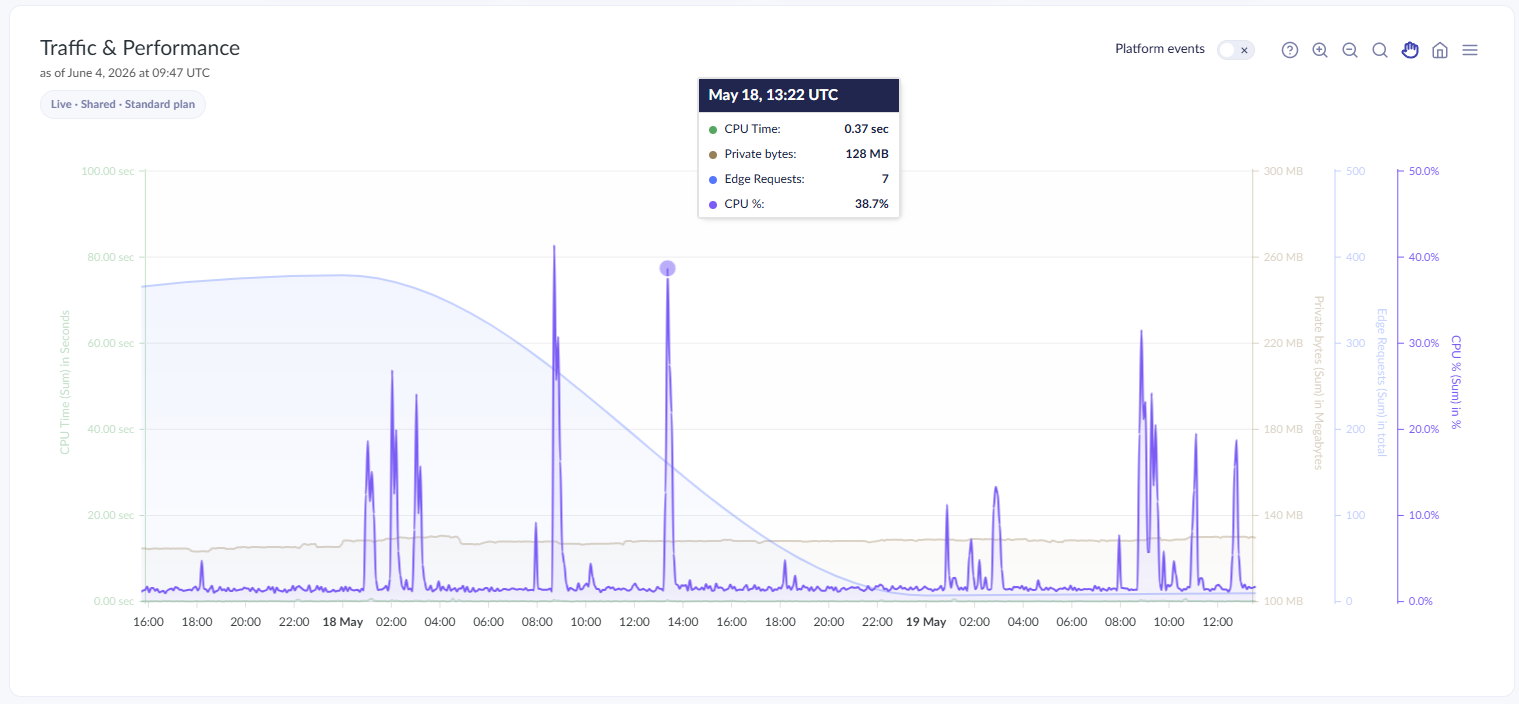
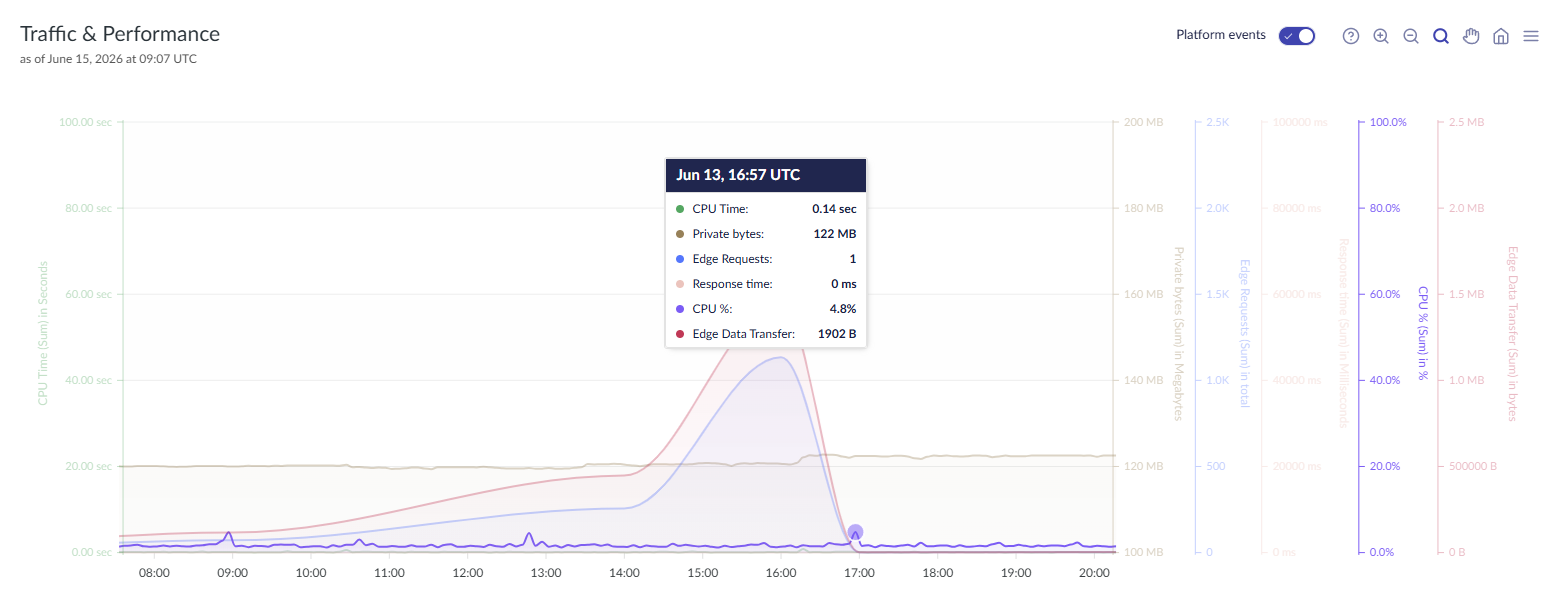
docs(cloud): address second-round review feedback on Traffic & Performance
- Rework Interactive Chart section: clarify that overview tiles double
  as the chart selector (no "Add metric" button anymore), default to
  one active metric (Failed Origin Requests), click a tile to toggle
  its metric on or off.
- Add a sentence and figure for the Edge Requests / Edge Data Traffic
  tabs at the top of the Traffic Breakdown Tables section.
- Replace platform-metrics and chart-zoomed-interactive screenshots
  with versions captured from a customer view, so the HQ-only plan
  badge ("Live · Shared · Standard plan") is no longer visible.

diff --git a/umbraco-cloud/optimize-and-maintain-your-site/monitor-and-troubleshoot/traffic-and-performance.md b/umbraco-cloud/optimize-and-maintain-your-site/monitor-and-troubleshoot/traffic-and-performance.md
@@ -102,10 +102,10 @@ Displays the total data transferred from your site through the edge. High values
 
 ## Interactive Chart
 
-Above the chart, a row of pills lets you choose which metrics to display. By default, three metrics are active. You can:
+The overview tiles at the top of the page double as a selector for the chart below. By default, one metric is active (Failed Origin Requests). You can:
 
-* Click a pill to remove that metric from the chart.
-* Click **Add metric** to add another metric to the chart.
+* Click a tile to add its metric to the chart.
+* Click an active tile again to remove that metric from the chart.
 * Display multiple metrics simultaneously on the same chart for comparison.
 
 Available metrics include:
@@ -198,6 +198,10 @@ You can also remove the reference to the `Umbraco.Cloud.Cms` package in the Umbr
 ## Traffic Breakdown Tables
 
 The breakdown tables provide detailed Cloudflare edge analytics, giving you visibility into how traffic flows through the edge network. The section appears when edge analytics are available (hostnames selected and a valid time range).
+
+Two tabs at the top of this section let you switch the table values between **Edge Requests** (count) and **Edge Data Traffic** (bytes transferred).
+
+<figure><img src="../../.gitbook/assets/tp-breakdown-tables-toggle.png" alt="Breakdown table data type section header with Edge Requests and Edge Data Traffic tabs, followed by the Response Characteristics tables."><figcaption><p>Switch the breakdown tables between Edge Requests and Edge Data Traffic.</p></figcaption></figure>
 
 Each table shows the top entries sorted by count or bytes.
 